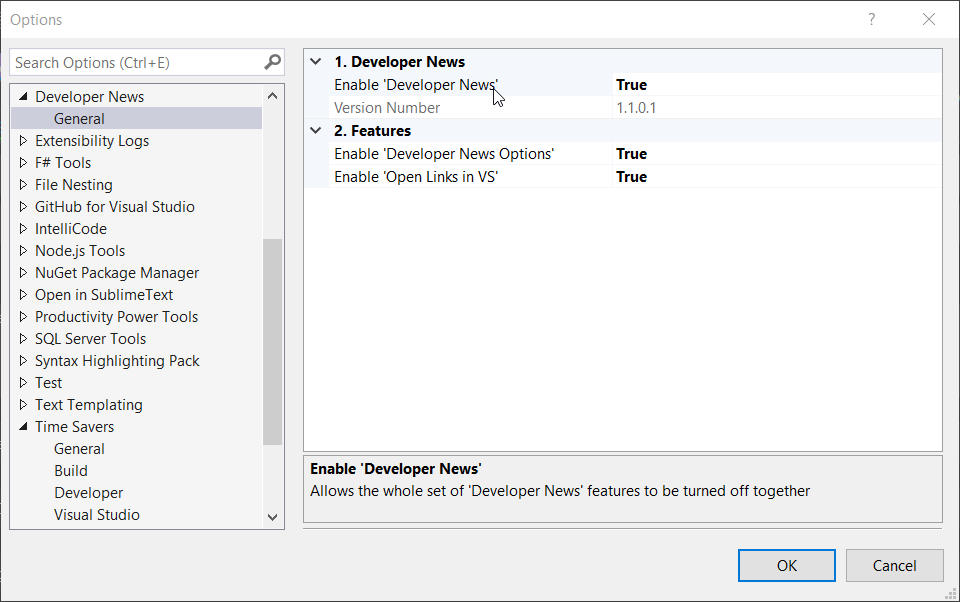
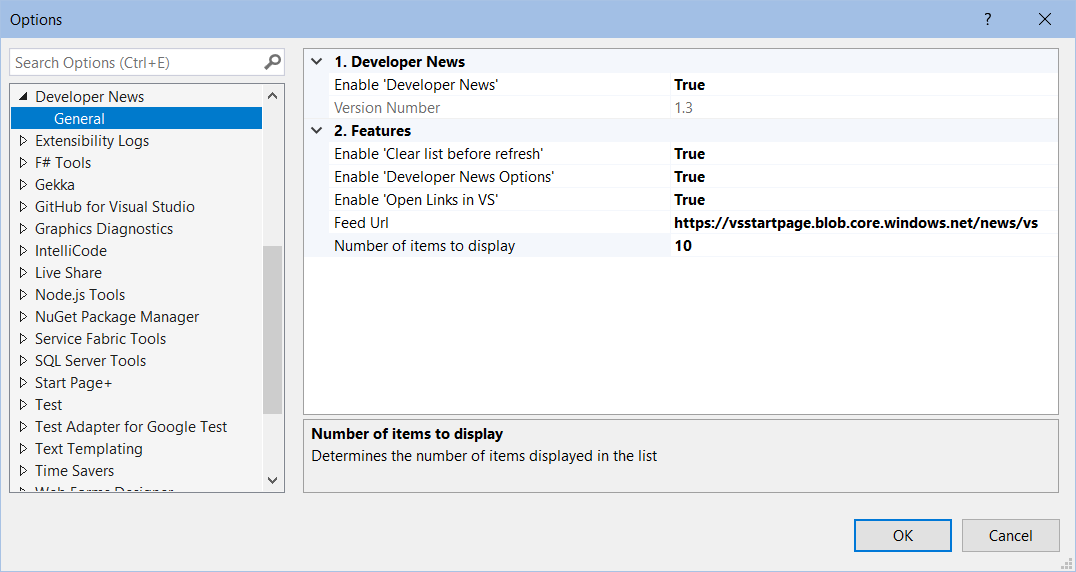
Update documentation source files

diff --git a/src/options/Constants/PageConstants.cs b/src/options/Constants/PageConstants.cs
@@ -20,7 +20,7 @@
         public const string FeedUrl = "Feed Url";
         public const string OpenLinksInVS = "Open Links in VS";
         public const string ItemsToDisplay = "Number of items to display";
-        public const string ClearListBeforeRefresh = "Clear list before refreshing it";
+        public const string ClearListBeforeRefresh = "Clear list before refresh";
         public const string EnableDeveloperNewsOptions = "Developer News Options";
     }
 }

diff --git a/docs-source/features.md b/docs-source/features.md
@@ -4,16 +4,9 @@ To display the new *Developer News* window:
 
 ## Dev News Feed
 
-The _Dev News_ feed is based on the feed from the Developer News control on the old VS 2017 startup page.
-It's the first feed that has been added to the new _Developer News_ window.
+The _Dev News_ feed is based on the feed from the _Developer News_ control on the old VS 2017 startup page.
 
 ![Dev News](assets/images/dev-news.png)
-
-## Other Feeds
-
-Other feeds will follow in the near future. Check out the [Roadmap][roadmap-url] for more details.
-
-[roadmap-url]: https://luminous-software.solutions/developer-news/roadmap
 
 ## Options
 
@@ -27,9 +20,36 @@ This setting allows the whole set of _Developer News_ features to be turned off 
 
 Displays then version number of _Developer News_ that's currently installed.
 
+### Enable 'Clear list before refresh'
+
+The default value is `true`, which means that the list will be cleared before a refresh is performed.
+This gives a visual indication that the list is being refreshed.
+
+A value of `false` may mean that the list refreshes so fast that it's not obvious that it was in fact refreshed.
+
+### Enable 'Developer News Options'
+
+The default value is `true`, which adds a 'Developer News Options' command to be added to the `Tools` | `Options` menu.
+
 ### Enable 'Open Links in VS'
 
 The default value is `true`, meaning that any item link that is clicked will be opened in a window
 inside of Visual Studio.
 
 A value of `false` will result in the link being opened in your default browser.
+
+### Feed Url
+
+This setting allows the list to be populated from an RSS feed other than that of VS 2017's _Developer News_.
+
+The default value is https://vsstartpage.blob.core.windows.net/news/vs.
+
+### Number of Items to display
+
+This allows you to limit the number of items displayed in the list.
+
+The default value is `10`. This is how many items that Microsoft currently maintains in the default feed.
+Only the newest three get displayed in the Installer's _Developer News_ section even though it points to the same source.
+
+A value greater than `10` will still only display ten items. A value of `0` will currently display zero items,
+but this may in the future be changed to indicate that all items in the feed should be displayed.

diff --git a/docs-source/changelog.md b/docs-source/changelog.md
@@ -1,7 +1,14 @@
 ## Public Releases
 
+### v1.3 - 2020-04-19
+- added option to change the feed url
+- added option to change the number of items displayed
+- added option to supress clearing the list before refreshing
+- added an 'Options' command to open Tools | Options | General in one click
+
 ### v1.2 - 2020-04-10
-- use selected theme's colors/font sizes (as in Start Page+)
+- added selected theme support (same as in Start Page+)
+- removed 'View More News' command
 
 ### v1.1 - 2019-07-01
 - added option to open links in default browser

diff --git a/docs-source/roadmap.md b/docs-source/roadmap.md
@@ -5,9 +5,6 @@ These might be entirely **new features** or **enhancements** to existing feature
 
 They may, or may not, end up being added into _Developer News_.
 
-- [ ] Visual Studio Blog feed
-- [ ] Visual Studio Twitter feed
-- [ ] Azure DevOps Blog feed
 - [ ] Auto-refresh
 
 Ticked items are available in the lastest version of _Developer News_.
